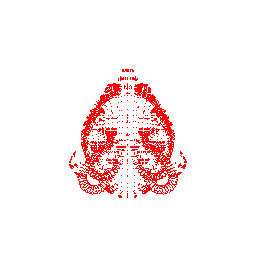
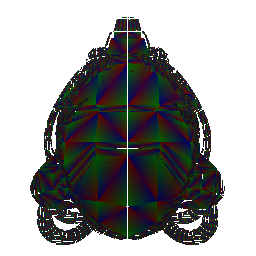
add barycentric interpolation

diff --git a/src/renderer.rs b/src/renderer.rs
@@ -1,27 +1,141 @@
 use crate::camera::Camera;
 use crate::canvas::Canvas;
 use crate::mesh::Mesh;
+use crate::vector2::Vector2;
 use crate::vector3::Vector3;
 use crate::vector4::Vector4;
+
+fn clipping(clipping_coords: &Vec<Vector4>) -> bool {
+    let mut count = 0;
+    for i in 0..clipping_coords.len() {
+        let vertex = clipping_coords[i];
+        let inside = (-vertex.w <= vertex.x && vertex.x <= vertex.w)
+            && (-vertex.w <= vertex.y && vertex.y <= vertex.w)
+            && (0.0 <= vertex.z && vertex.z <= vertex.w);
+        if !inside {
+            count += 1;
+        }
+    }
+    return count == 3;
+}
+
+fn perspective_divide(vertex: &mut Vector4) {
+    vertex.x /= vertex.w;
+    vertex.y /= vertex.w;
+    vertex.z /= vertex.w;
+
+    // w should be contained.
+    // for barycentric
+}
+
+fn is_back_face(vertex: &Vec<Vector4>) -> bool {
+    let xa = vertex[0].x;
+    let xb = vertex[1].x;
+    let xc = vertex[2].x;
+
+    let ya = vertex[0].y;
+    let yb = vertex[1].y;
+    let yc = vertex[2].y;
+
+    return xa * (yb - yc) + xb * (yc - ya) + xc * (ya - yb) <= 0.0;
+}
+
+fn viewport_transform(vertex: &mut Vector4, width: f64, height: f64) {
+    vertex.x = vertex.x * (width / 2.0f64) + width / 2.0f64;
+    vertex.y = height / 2.0f64 - vertex.y * (height / 2.0f64);
+}
+
+fn barycentric(vertex: &Vec<Vector4>, x: f64, y: f64) -> Vector3 {
+    let mut v0 = Vector2::new(vertex[1].x - vertex[0].x, vertex[1].y - vertex[0].y);
+    let mut v1 = Vector2::new(vertex[2].x - vertex[0].x, vertex[2].y - vertex[0].y);
+    let mut v2 = Vector2::new(x - vertex[0].x, y - vertex[0].y);
+    let d00 = v0.dot(&v0);
+    let d01 = v0.dot(&v1);
+    let d11 = v1.dot(&v1);
+    let d20 = v2.dot(&v0);
+    let d21 = v2.dot(&v1);
+
+    let denom = d00 * d11 - d01 * d01;
+    let v = (d11 * d20 - d01 * d21) / denom;
+    let w = (d00 * d21 - d01 * d20) / denom;
+    let u = 1.0 - v - w;
+    return Vector3::new(u, v, w);
+}
+
 pub fn render(mesh: &Mesh, camera: &Camera, canvas: &mut Canvas) {
+    let red = Vector3::new(1.0, 0.0, 0.0);
+    let green = Vector3::new(0.0, 1.0, 0.0);
+    let blue = Vector3::new(0.0, 0.0, 1.0);
     let view_matrix = camera.get_view_matrix();
     let projection_matrix = camera.get_projection_matrix();
     let view_projection_matrix = projection_matrix * view_matrix;
-    println!("{:?}", view_projection_matrix);
-    println!("{:?}", mesh.vertices.len());
-    println!("{:?}", mesh.indices.len());
-    for i in 0..mesh.indices.len() {
-        let index = mesh.indices[i];
-        let vertex = Vector4::new(
-            mesh.vertices[index as usize].x,
-            mesh.vertices[index as usize].y,
-            mesh.vertices[index as usize].z,
-            1.0,
-        );
-        let vertex = view_projection_matrix * vertex;
-        let vertex = vertex * (1.0f64 / vertex.w);
-        let x = vertex.x * (canvas.width as f64 / 2.0f64) + canvas.width as f64 / 2.0f64;
-        let y = canvas.height as f64 / 2.0f64 - vertex.y * canvas.height as f64 / 2.0f64;
-        canvas.set_pixel_rgb(x as u32, y as u32, Vector3::new(1.0, 0.0, 0.0));
+    let mut primitive: Vec<Vector4> = vec![Vector4::new(0.0, 0.0, 0.0, 0.0); 3];
+    for i in 0..mesh.indices.len() / 3 {
+        for j in 0..3 {
+            let index = mesh.indices[i * 3 + j] as usize;
+            let position = mesh.vertices[index];
+            primitive[j] =
+                view_projection_matrix * Vector4::new(position.x, position.y, position.z, 1.0);
+        }
+        if !clipping(&primitive) {
+            // perspective divide
+            for j in 0..3 {
+                perspective_divide(&mut primitive[j]);
+            }
+            // face culling
+            if !is_back_face(&primitive) {
+                for j in 0..3 {
+                    viewport_transform(
+                        &mut primitive[j],
+                        canvas.width as f64,
+                        canvas.height as f64,
+                    );
+                }
+
+                let mut x_max = primitive[0]
+                    .x
+                    .max(primitive[1].x)
+                    .max(primitive[2].x)
+                    .min(canvas.width as f64 - 1.0);
+                let mut x_min = primitive[0]
+                    .x
+                    .min(primitive[1].x)
+                    .min(primitive[2].x)
+                    .max(0.0);
+                let mut y_max = primitive[0]
+                    .y
+                    .max(primitive[1].y)
+                    .max(primitive[2].y)
+                    .min(canvas.height as f64 - 1.0);
+                let mut y_min = primitive[0]
+                    .y
+                    .min(primitive[1].y)
+                    .min(primitive[2].y)
+                    .max(0.0);
+                for x in x_min as usize..x_max as usize {
+                    for y in y_min as usize..y_max as usize {
+                        let mut barycentric =
+                            barycentric(&primitive, x as f64 + 0.5, y as f64 + 0.5);
+                        if barycentric.x < 0.0 || barycentric.y < 0.0 || barycentric.z < 0.0 {
+                            continue;
+                        }
+                        barycentric = Vector3::new(
+                            barycentric.x / primitive[0].w,
+                            barycentric.y / primitive[1].w,
+                            barycentric.z / primitive[2].w,
+                        );
+                        let mut z = barycentric.x * primitive[0].z
+                            + barycentric.y * primitive[1].z
+                            + barycentric.z * primitive[2].z;
+                        let color =
+                            red * barycentric.x + green * barycentric.y + blue * barycentric.z;
+                        if canvas.get_depth(x as u32, y as u32) >= z {
+                            canvas.set_pixel_rgb(x as u32, y as u32, color);
+                            canvas.set_depth(x as u32, y as u32, z);
+                        }
+                    }
+                }
+            }
+        }
     }
 }

diff --git a/src/mesh.rs b/src/mesh.rs
@@ -8,6 +8,8 @@ use std::{
 pub struct Mesh {
     pub vertices: Vec<Vector3>,
     pub indices: Vec<u32>,
+    pub normals: Vec<Vector3>,
+    pub uvs: Vec<Vector2>,
 }
 
 impl Mesh {
@@ -15,12 +17,16 @@ impl Mesh {
         Mesh {
             vertices: Vec::new(),
             indices: Vec::new(),
+            uvs: Vec::new(),
+            normals: Vec::new(),
         }
     }
 
     pub fn from_obj_file(path: &str) -> Mesh {
         let mut indices: Vec<u32> = Vec::new();
         let mut vertices: Vec<Vector3> = Vec::new();
+        let mut uvs: Vec<Vector2> = Vec::new();
+        let mut normals: Vec<Vector3> = Vec::new();
         let file = File::open(path).unwrap();
         let reader = BufReader::new(file);
         for line in reader.lines() {
@@ -31,13 +37,15 @@ impl Mesh {
                 "vt" => {
                     let x = parts.next().unwrap().parse::<f64>().unwrap();
                     let y = parts.next().unwrap().parse::<f64>().unwrap();
-                    println!("{:?}", Vector2::new(x, y));
+                    // println!("{:?}", Vector2::new(x, y));
+                    uvs.push(Vector2::new(x, y));
                 }
                 "vn" => {
                     let x = parts.next().unwrap().parse::<f64>().unwrap();
                     let y = parts.next().unwrap().parse::<f64>().unwrap();
                     let z = parts.next().unwrap().parse::<f64>().unwrap();
-                    println!("{:?}", Vector3::new(x, y, z));
+                    // println!("{:?}", Vector3::new(x, y, z));
+                    normals.push(Vector3::new(x, y, z));
                 }
                 "v" => {
                     let x = parts.next().unwrap().parse::<f64>().unwrap();
@@ -72,6 +80,11 @@ impl Mesh {
                 _ => {}
             }
         }
-        Mesh { vertices, indices }
+        Mesh {
+            vertices,
+            indices,
+            uvs,
+            normals,
+        }
     }
 }

diff --git a/src/canvas.rs b/src/canvas.rs
@@ -6,6 +6,7 @@ pub struct Canvas {
     pub height: u32,
     pub channels: u32,
     pub pixels: Vec<u8>,
+    pub depths: Vec<f64>,
 }
 
 impl Canvas {
@@ -15,7 +16,17 @@ impl Canvas {
             height: height,
             channels: channels,
             pixels: vec![0; (width * height * channels) as usize],
+            depths: vec![1.0; (width * height) as usize],
         }
+    }
+
+    pub fn set_depth(&mut self, x: u32, y: u32, depth: f64) {
+        let index = (y * self.width + x) as usize;
+        self.depths[index] = depth;
+    }
+
+    pub fn get_depth(&self, x: u32, y: u32) -> f64 {
+        self.depths[(y * self.width + x) as usize]
     }
 
     pub fn set_pixel(&mut self, x: u32, y: u32, color: Vector4) {

diff --git a/src/main.rs b/src/main.rs
@@ -22,7 +22,7 @@ fn main() {
     let mesh = Mesh::from_obj_file("assets/helmet/helmet.obj");
 
     let camera = camera::Camera::new(
-        Vector3::new(0.0, 0.0, 5.0),
+        Vector3::new(0.0, 0.0, 3.0),
         Vector3::new(0.0, 0.0, 0.0),
         Vector3::new(0.0, 1.0, 0.0),
         45.0 / 180.0 * std::f64::consts::PI,
@@ -30,7 +30,11 @@ fn main() {
         0.1,
         100.0,
     );
+    use std::time::Instant;
+    let now = Instant::now();
     render(&mesh, &camera, &mut canvas);
+    let elapsed = now.elapsed();
+    println!("Elapsed: {:.2?}", elapsed);
     // println!("{:?}", scene);
     canvas.save_image("test.png");
 }

diff --git a/src/vector2.rs b/src/vector2.rs
@@ -8,4 +8,8 @@ impl Vector2 {
     pub fn new(x: f64, y: f64) -> Vector2 {
         Vector2 { x: x, y: y }
     }
+
+    pub fn dot(&self, other: &Vector2) -> f64 {
+        self.x * other.x + self.y * other.y
+    }
 }
